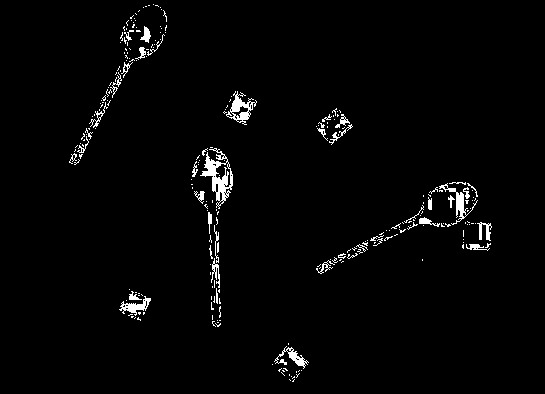
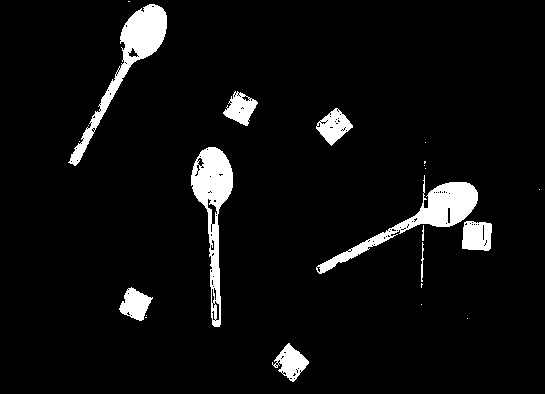
working well

diff --git a/lab1.rb b/lab1.rb
@@ -1,61 +1,64 @@
 # encoding: utf-8
 require 'RMagick'
 require 'k_means'
-require 'colorize'
 [File.expand_path('../group.rb', __FILE__)].each {|f| require f}
 
-GROUPS = 6
-MIN_SQUARE = 60
-MIN_P = 10
+GROUPS = 6.freeze
+MIN_SQUARE = 60.freeze
+MIN_P = 10.freeze
 
-#
-# Prepare images and data
-#
 
+####################################################
+### Prepare images
+####################################################
 img = Magick::Image.read('images/image.jpg').first
 
+# Changes the brightness, saturation, and hue
 @med = img.dup.modulate(0.4)
-@med.write 'images/med.jpg'
+@med.write 'images/result/med.jpg'
 
-@bin = @med.dup.threshold(Magick::MaxRGB * 0.25)
-@bin.write 'images/bin.jpg'
+# Change the value of individual pixels based on the intensity of each pixel compared to threshold
+@bin = @med.dup.threshold(Magick::MaxRGB * 0.10)
+@bin.write 'images/result/bin.jpg'
+####################################################
 
-@groups = []
+
+####################################################
+### Detect items
+####################################################
 checked = []
 2000.times { |i| checked[i] = Array.new(2000) }
+@groups = []
 
-#
-# Detect items
-#
 @detect = @bin.dup
-
-@detect.each_pixel do |p, c, r|
+@detect.each_pixel do | _, column, row|
   group ||= Group.new(@detect, checked)
 
-  if group.item?(c,r)
-    group.process_queue << [c,r]
+  if group.item?(column, row)
+    group.process_queue << [column, row]
     group.process
     @groups << group
     group = Group.new(@detect, checked)
   end
-  print "." if c == 0
+
+  print '.' if column == 0
 end
 
 print "\n"
 
 @groups.reject!{|g| g.dots.empty? || g.count < MIN_SQUARE || g.p < MIN_P}
-
 @groups.each_with_index do |group, i|
   color = RandomColor.get
   puts "Группа ##{i}: #{group.info}"
   group.dots.each { |x,y| @detect.pixel_color(x, y, color) }
 end
 
+@detect.write 'images/result/detect.jpg'
 
-@detect.write 'images/detect.jpg'
 
-# Classify using k-medians algorythm
-
+####################################################
+### Classify using k-medians algorythm
+####################################################
 @classify = @bin.dup
 
 data = @groups.map{|g| g.analyzing_params}
@@ -71,7 +74,7 @@ kmeans.each do |ind|
   end
 end
 
-@classify.write 'images/classify.jpg'
+@classify.write 'images/result/classify.jpg'
 
 # Shoes.app(height: 600, width: 800) do
 #   @img = image('images/image.jpg')
@@ -80,6 +83,5 @@ end
 #     %w(image med bin detect classify).each do |type|
 #       button(type) { @img.path = "images/#{type}.jpg" }
 #     end
-#   end
-#
+#   end#
 # end

diff --git a/group.rb b/group.rb
@@ -1,32 +1,30 @@
 # encoding: utf-8
-
 require_relative 'random_color'
 
 class Group
-  MAX_INTENSITY = 60000
-  SQUARE_4 = [[-1, 0], [0, -1], [0, 1], [1, 0]]
-  SQUARE_8 = [[-1, 0], [-1, 1], [-1, -1], [0, -1], [0, 1], [1, -1], [1, 0], [1, 1]]
+  MAX_INTENSITY = 60000.freeze
+  SQUARE_4 = [[-1, 0], [0, -1], [0, 1], [1, 0]].freeze
+  SQUARE_8 = [[-1, 0], [-1, 1], [-1, -1], [0, -1], [0, 1], [1, -1], [1, 0], [1, 1]].freeze
 
-  SQUARE = SQUARE_4
+  SQUARE = SQUARE_8
 
   attr_reader :mass, :count, :p, :comp, :dots, :process_queue, :decentered
 
   def initialize(img, checked)
     @img = img
-    @mass = [1,1]
+    @mass = [1, 1]
     @p = 1
     @dots = []
     @process_queue = []
     @checked = checked
   end
 
-  def item?(c, r)
-    SQUARE.any? { |dx, dy| @img.pixel_color(c + dx, r + dy).intensity > MAX_INTENSITY  }
+  def item?(column, row)
+    SQUARE.any? { |dx, dy| @img.pixel_color(column + dx, row + dy).intensity > MAX_INTENSITY }
   end
 
   def process
     while !@process_queue.empty?
-
       sc, sr = @process_queue.shift
 
       next if sc < 0 || sr < 0 || sc > @img.columns || sr > @img.rows
@@ -49,12 +47,11 @@ class Group
       end
     end
     count_metrics
-
   end
 
   def info
     return '' if @dots.empty?
-    str ||=  "Площадь: #{@count}; "
+    str ||= "Площадь: #{@count}; "
     str += "Периметр: #{@p}; "
     str += "Компактность: #{@comp}; "
     str += "Нецентрированность: #{@decentered}; "
